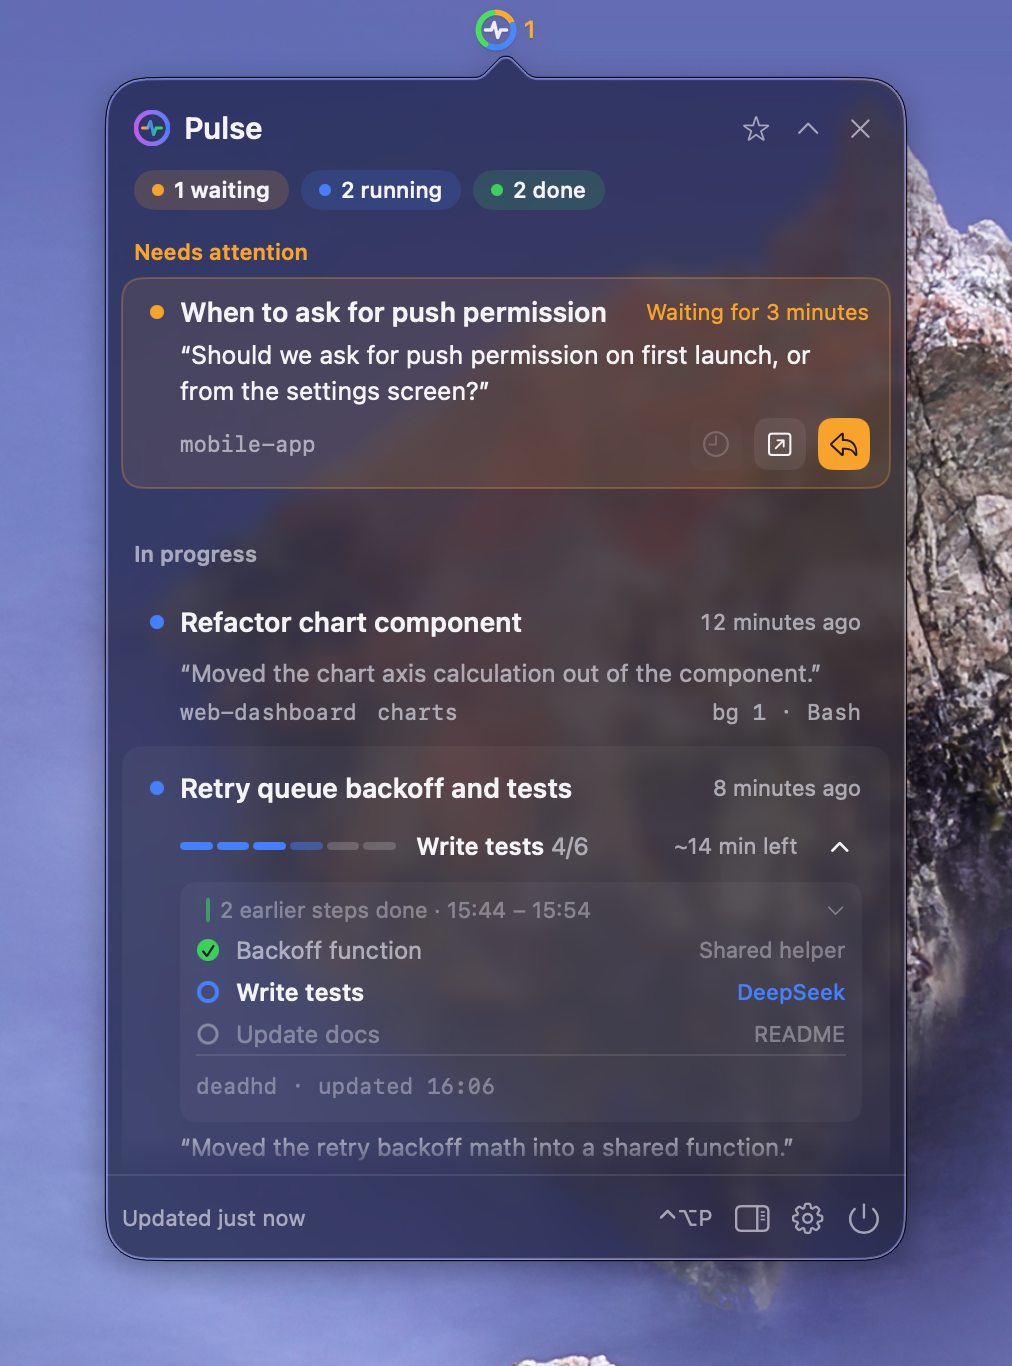
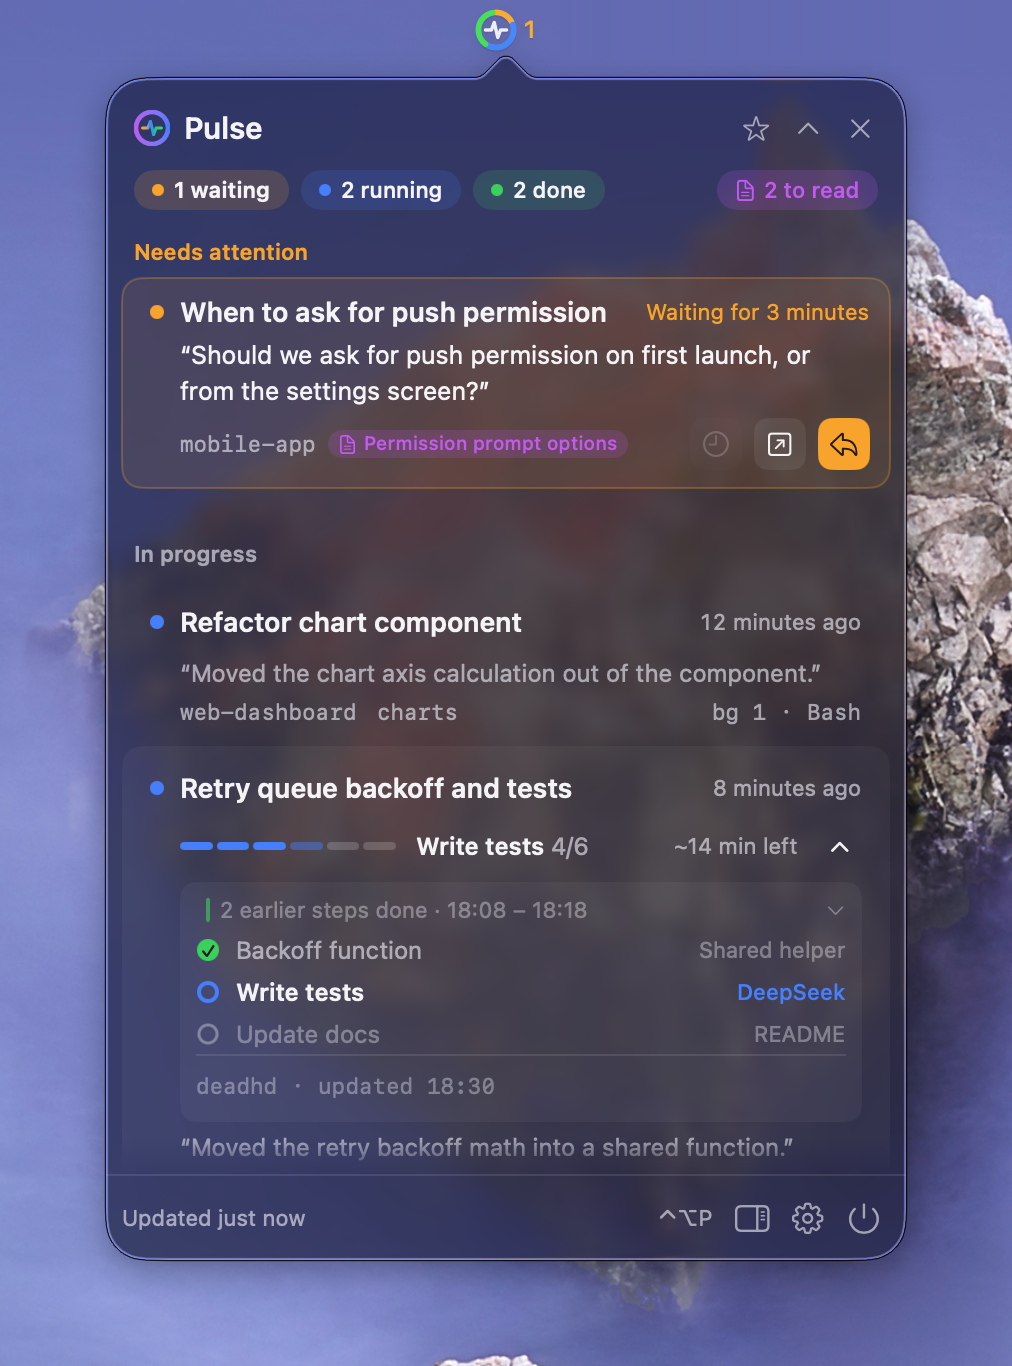
docs: Pulse 와 함께 쓰기 절·그림 갱신과 릴리즈 절차의 Pulse 확인 단계

diff --git a/CLAUDE.md b/CLAUDE.md
@@ -13,6 +13,7 @@
    - 게시 전에 `skills/deadhd` 에 커밋되지 않은 파일(`__pycache__` 포함)이 없는지 확인하고, 엔진이 만든 `skills/deadhd/.claude-plugin/types/` 와 `skills/deadhd/tsconfig.json` 은 지운다. `types/` 에는 이 컴퓨터 사용자의 MCP 도구 목록이 들어 있어 공개 묶음에 실리면 안 된다(`git status --short` 에는 `.gitignore` 때문에 보이지 않으니 `ls skills/deadhd/.claude-plugin/` 로 확인한다).
    - 게시는 Orca 가 실행 중인 이 컴퓨터에서 `orca skills share --skill <deadhd 의 Claude home ID> --bundle-name "deadhd vX.Y.Z" --json` 으로 한다. ID 는 `orca skills installed --json` 에서 찾는다. Orca 설정의 「에이전트와 Orca CLI 가 기술 링크를 게시하도록 허용」이 꺼져 있으면 사용자에게 앱에서 게시해 달라고 한다.
    - README 의 `<a id="orca-install"></a>` 앵커는 지우지 않는다. 외부 글이 `https://github.com/lcalmsky/deadhd#orca-install` 로 이 절을 가리킨다.
+7. Pulse 저장소(`~/git-repo/pulse`)를 반드시 함께 확인한다. 직전 deadhd 릴리즈 뒤의 Pulse 변경(`git -C ~/git-repo/pulse log`)과 Pulse README·README.en 의 「deadhd 와 함께 쓰기」 절을 읽고, deadhd README 두 언어의 「Pulse 와 함께 쓰기」 절이 그 내용과 맞는지 대조해 고친다. `docs/pulse.png`·`docs/pulse.en.png` 는 Pulse 의 `docs/images/deadhd-steps.png`·`deadhd-steps.en.png` 와 해시를 비교해 다르면 다시 복사한다. 이번 deadhd 변경이 Pulse 가 읽는 상태 파일이나 Pulse 가 쓰는 `render.py`·`serve.py` 에 닿으면 Pulse 쪽에 고칠 것이 있는지도 사용자에게 알린다.
 
 플러그인 업데이트는 `version` 문자열로 판정된다. 버전을 올리지 않고 커밋만 푸시하면, 이미 설치한 사람은 `claude plugin update` 를 실행해도 "already at the latest version" 이 나오고 예전 파일을 계속 쓴다.
 
@@ -36,7 +37,7 @@ python3 docs/capture_board.py && python3 docs/capture_board.py --lang en     # b
 python3 docs/capture_mods.py && python3 docs/capture_mods.py --lang en       # band.png, band.en.png, statusline.png, statusline.en.png
 ```
 
-`docs/pulse.png`·`docs/pulse.en.png` 는 캡처하지 않는다. Pulse 저장소(`~/git-repo/pulse`)의 `docs/images/deadhd-steps.png`·`deadhd-steps.en.png` 사본이라, Pulse 쪽 그림이 바뀌면 다시 복사한다.
+`docs/pulse.png`·`docs/pulse.en.png` 는 캡처하지 않는다. Pulse 저장소(`~/git-repo/pulse`)의 `docs/images/deadhd-steps.png`·`deadhd-steps.en.png` 사본이라, Pulse 쪽 그림이 바뀌면 다시 복사한다. 릴리즈마다 위 7번 절차로 확인한다.
 
 화면에 보이는 새 기능을 추가하면 그 기능이 그림에 드러나도록 데모 데이터나 캡처 스크립트를 고쳐 README 예시 그림에 반드시 넣는다.
 

diff --git a/README.md b/README.md
@@ -187,12 +187,13 @@ Claude Code 에서 플러그인을 설치합니다.
 
 [Pulse](https://github.com/lcalmsky/pulse) 는 Claude Code 세션을 macOS 메뉴 막대에서 보는 별도 앱입니다. deadhd 가 쓰는 상태 파일을 그대로 읽으므로, 터미널을 보고 있지 않을 때도 **진행 중인 세션 행에 체크리스트가 붙습니다.**
 
-- **진행률** `4/6` 과 단계 막대를 그리고, 막힌 단계는 주황으로 칠합니다
+- **진행률** `5/9` 와 단계 막대를 그리고, 막힌 단계는 주황으로 칠합니다
 - **지금 단계** 단계 이름과 `약 N분 남음` 을 보여 줍니다
-- **단계 펼침** 단계 줄을 누르면 직전·지금·다음 단계가 행 안에 펼쳐집니다
-- **진행 페이지** 문서 버튼으로 deadhd 진행 페이지를 브라우저에서 엽니다
+- **단계 펼침** 단계 줄을 누르면 직전·지금·다음 단계가 행 안에 펼쳐집니다. 선택한 행에서 `→` 로 펼치고 한 번 더 누르면 전체 단계, `←` 로 한 단계씩 접습니다
+- **진행 페이지** 문서 버튼으로 deadhd 진행 페이지를 브라우저에서 엽니다. 열지 못하면 팝오버와 패널 아래에 실패 안내가 잠깐 뜹니다
+- **활동** `압축 1 · 백그라운드 2 · Bash 12초 전` 같은 활동 줄을 만듭니다
 
-세션이 답을 기다리거나 끝나면 메뉴 막대 아래에 카드를 띄우고, 행을 누르면 Orca 터미널의 그 세션으로 이동합니다. deadhd 는 Pulse 없이도 모든 기능이 동작하며, Pulse 는 메뉴 막대를 한 곳 더하는 선택 사항입니다. Homebrew 로 설치합니다.
+체크리스트를 다 끝내지 못한 채 턴이 끝난 세션은 완료 행에도 단계 줄이 남습니다. 세션이 답을 기다리거나 끝나면 메뉴 막대 아래에 카드를 띄우고, 행을 누르면 Orca 터미널이나 herdr·tmux 패널의 그 세션으로 이동합니다. deadhd 는 Pulse 없이도 모든 기능이 동작하며, Pulse 는 메뉴 막대를 한 곳 더하는 선택 사항입니다. Homebrew 로 설치합니다.
 
 ```sh
 brew tap lcalmsky/pulse https://github.com/lcalmsky/pulse

diff --git a/README.en.md b/README.en.md
@@ -187,12 +187,13 @@ A preset bundles the family, weight, and letter spacing, and the default `defaul
 
 [Pulse](https://github.com/lcalmsky/pulse) is a separate app that shows Claude Code sessions in the macOS menu bar. It reads the same state files deadhd writes, so **working rows carry the checklist** even when the terminal is out of view.
 
-- **Progress** draws `4/6` and a step bar. A blocked step is painted orange
+- **Progress** draws `5/9` and a step bar. A blocked step is painted orange
 - **Current step** shows the step name and `~N min left`
-- **Steps** clicking the step line expands the previous, current, and next steps inside the row
-- **Progress page** the document button opens the deadhd progress page in a browser
+- **Steps** clicking the step line expands the previous, current, and next steps inside the row. On the selected row, `→` expands and pressing it again shows all steps, while `←` collapses them one at a time
+- **Progress page** the document button opens the deadhd progress page in a browser. If it cannot be opened, a short failure notice appears at the bottom of the popover and panel
+- **Activity** an activity line such as `1 compaction · 2 in background · Bash 12 seconds ago`
 
-Pulse raises a card under the menu bar when a session waits for you or finishes, and clicking a row jumps to that session's Orca terminal. deadhd works fully without it; Pulse only adds the menu bar as one more place to look. Install it with Homebrew.
+A session whose turn ended before its checklist was finished keeps a step line on its done row. Pulse raises a card under the menu bar when a session waits for you or finishes, and clicking a row jumps to that session's Orca terminal or its herdr or tmux pane. deadhd works fully without it; Pulse only adds the menu bar as one more place to look. Install it with Homebrew.
 
 ```sh
 brew tap lcalmsky/pulse https://github.com/lcalmsky/pulse
